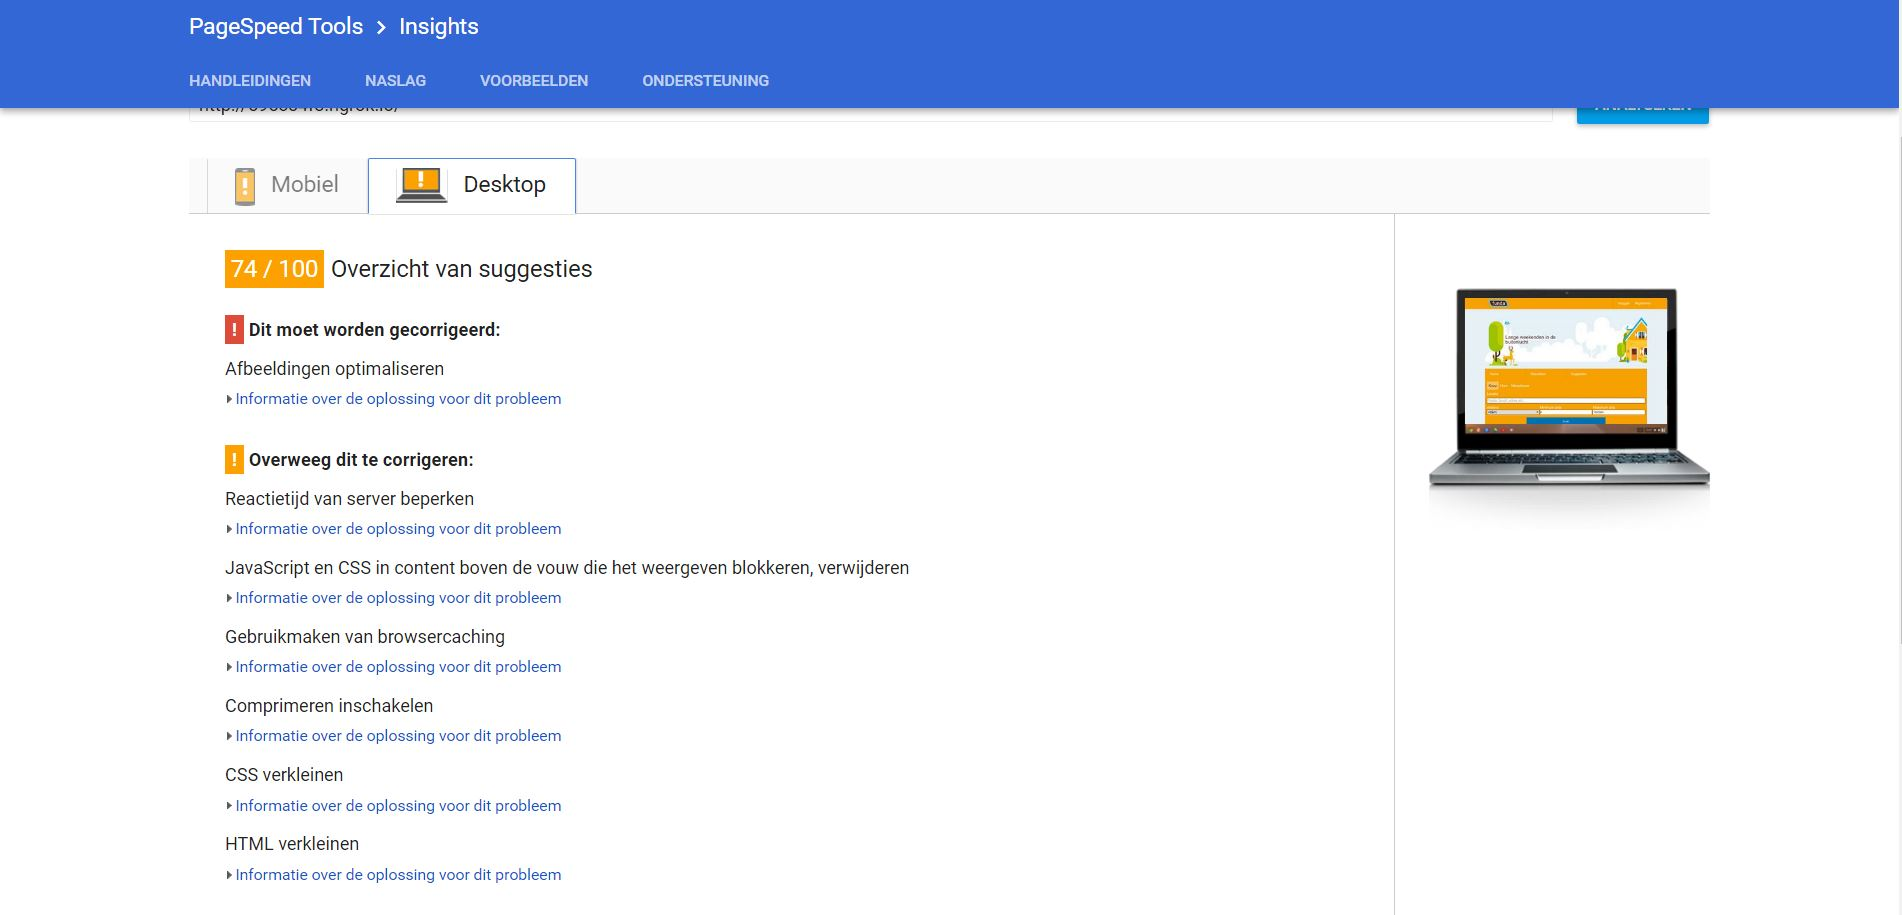
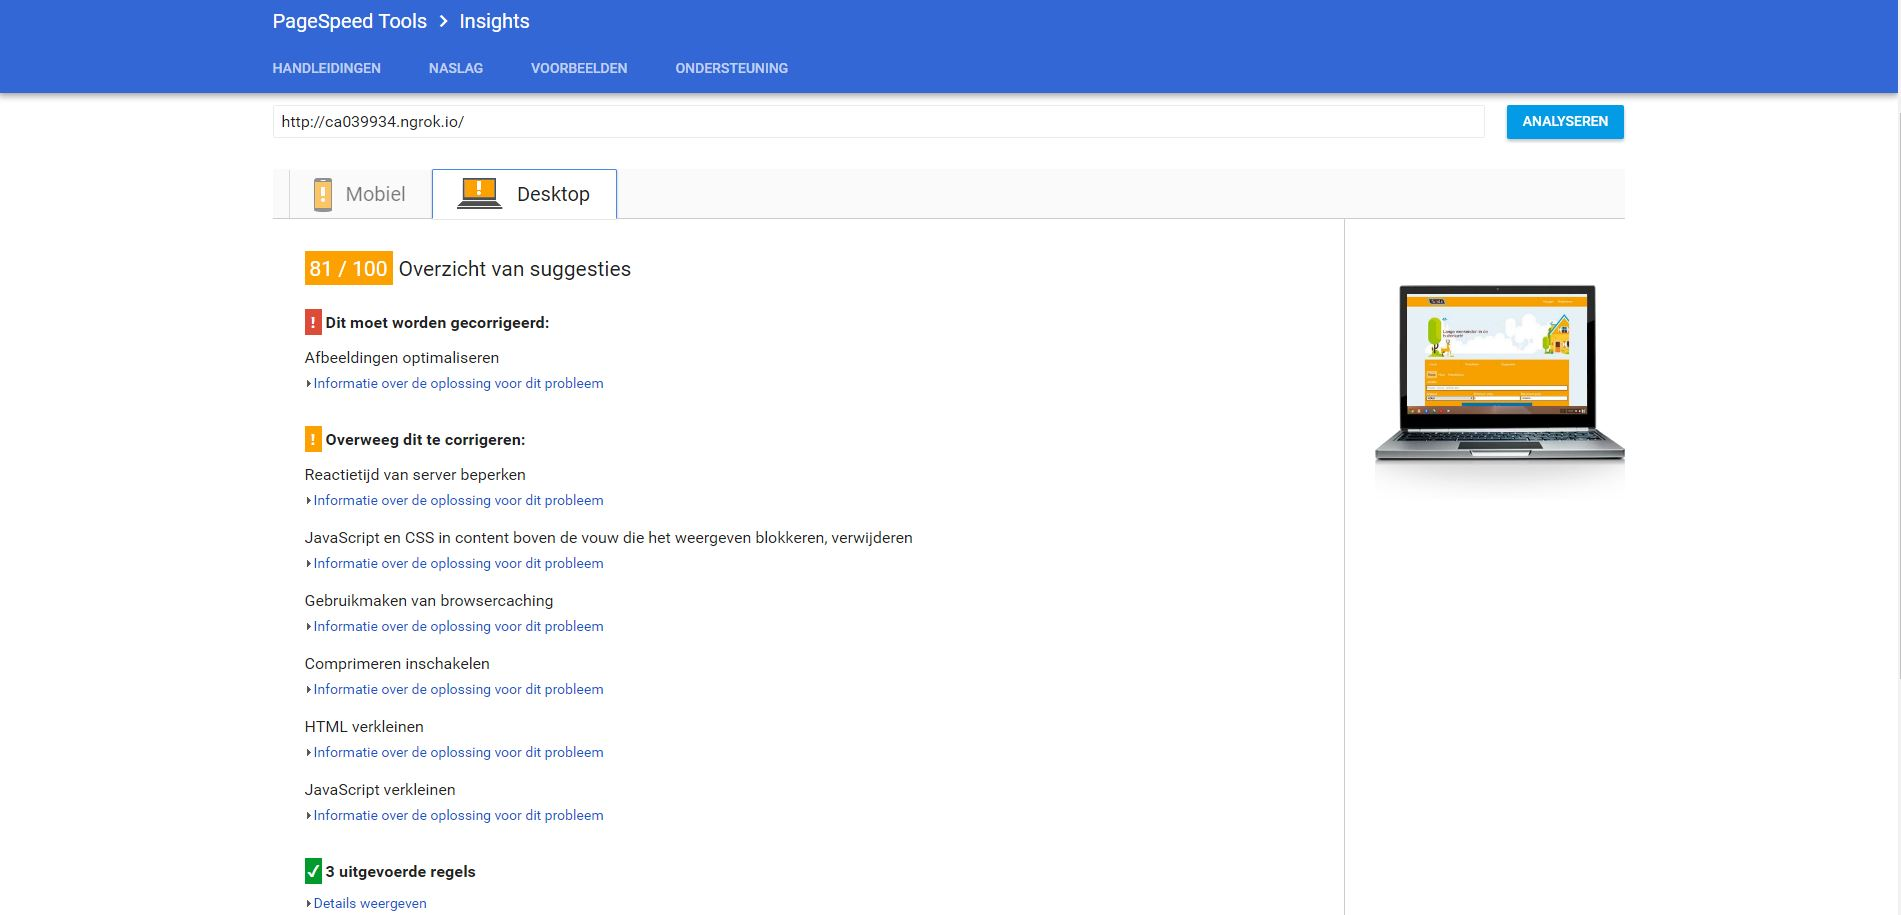
alst commit

Changed region(s): [[0.0931, 0.1836, 0.4966, 1.0], [0.0, 0.0, 1.0, 0.153], [0.7138, 0.306, 0.9001, 0.5508]]

diff --git a/public/stylesheets/style.min.css b/public/stylesheets/style.min.css
@@ -1,0 +1,1 @@
+body,body>header{margin:0;width:100%;padding:0}*{box-sizing:border-box}:focus{border-style:double}header ul,main header nav ul{border-right:.1em solid #DE9000;display:flex}body{font-family:sans-serif;line-height:1.5em;background:#e7f1f5}body>header{background-color:#F7A100;box-sizing:border-box}body>header section{display:flex;flex-direction:row;justify-content:space-between;flex-wrap:wrap;flex-basis:100%;margin:0 auto}body>header a{flex-grow:3}header a img{width:6.5em;padding:.5em 0 0;margin:0 1em}header ul{flex:100%;flex-direction:row;float:right;margin:0;box-sizing:border-box;list-style:none;align-items:center;flex-wrap:wrap;padding:0}header ul li{flex:100%;margin:0;border-top:none;border-top:.1em solid #DE9000;padding:0}header li a{width:100%;box-sizing:border-box;color:#fff;list-style:none;text-decoration:none;display:inline-block;padding:1rem 1.5rem}form label[for=koop]:hover,form label[for=huur]:hover,form label[for=nieuwbouw]:hover,header li a:hover{background:#DE9000}main header nav{width:100%;margin:auto}main header nav ul{width:100%;flex-direction:row}@media screen and (min-width:30em){body>header section{width:80%;flex-wrap:nowrap}header ul{flex:1;flex-wrap:nowrap}header ul li{flex:1;border-left:.1em solid #DE9000;border-top:none}main header nav{width:80%;margin:auto}}.CoverImage{box-sizing:border-box;background-image:url(../images/homePicture.jpg);background-position:bottom left;background-repeat:no-repeat;background-size:cover;height:35vh;width:80%;overflow:hidden;position:relative;margin:1em auto}.CoverImage h1{width:100%;font-size:1.5em;text-align:left;margin:0 0 0 10vw;font-weight:300;color:#53241B}.CoverImage h1:nth-of-type(1){margin:15vh 0 0 10vw}form{width:100%;margin:1em 0;background:#F7A100;box-sizing:border-box;color:#fff}form section{margin:0 0 1em;padding:0;border:none;width:100%}legend{width:100%;text-align:center}form section:nth-of-type(1){display:flex;flex-flow:column;width:100%;box-sizing:border-box;font-size:1.1rem}form input[type=radio]{display:none}form input[type=radio]+label{border-radius:.2em;padding:.5em;cursor:pointer;width:100%;box-sizing:border-box}form input[type=radio]:checked+label{background:#F8C463;color:#53241B}form input[type=radio]:checked+label:hover{background:#DE7000}form section:nth-of-type(2){padding:0 .5em;display:flex;flex-flow:column;width:100%;box-sizing:border-box;font-size:1.1rem}form section:nth-of-type(2) label{width:100%;font-size:1.1rem}select{margin:0;padding:0;font-size:1.1rem}form section:nth-of-type(2) button.sendAnswers{order:4;width:70%;margin:0 15% 1em;box-sizing:border-box;border:none;padding:1em;color:#fff;background:#0071B3}@media screen and (min-width:30em){form{width:100%;margin:1em 0;background:#F7A100;box-sizing:border-box;color:#fff}form section{margin:0 0 1em;padding:0;border:none;width:100%}legend{display:none}form section:nth-of-type(1){flex-flow:row;padding:.5em}form input[type=radio]+label{width:auto}form section:nth-of-type(2){flex-flow:row;flex-wrap:wrap;justify-content:space-between}form section:nth-of-type(2) input[id=locatie],form section:nth-of-type(2) label[for=locatie]{order:1;width:100%;font-size:1.1rem;margin-bottom:.5em}form section:nth-of-type(2) label[for=afstand],form section:nth-of-type(2) label[for=prijsMin],form section:nth-of-type(2) label[for=prijsMax]{width:33%;box-sizing:border-box;order:2}form section:nth-of-type(2) input[id=prijsMin],form section:nth-of-type(2) input[id=prijsMax],form section:nth-of-type(2) select[id=afstand]{width:33%;box-sizing:border-box;order:3}form section:nth-of-type(2) button.sendAnswers{order:4;width:50%;margin:1em 25%}}@media screen and (min-width:50em){form{width:80%;margin:1em auto;background:#F7A100;box-sizing:border-box;color:#fff}form section{margin:0}button.sendAnswers{margin-top:.5em}.displayType{width:80%}}.displayType{flex-basis:100%;margin:1em auto;background:#F7A100;box-sizing:border-box}.displayType ul{display:flex;flex-direction:row;justify-content:flex-start;flex-wrap:wrap;flex-basis:100%;box-sizing:border-box;margin:0;padding:1.5em}.displayType li{list-style:none;margin:1em 0}.displayType li a{padding:1em;border-radius:.2em;color:#fff;cursor:pointer;text-decoration:none}.displayType li.active a{background:#F8C463;color:#53241B}.displayType li a:hover{background:#DE9000}li.active a:hover{background:#DE7000}@media screen and (min-width:30em){.displayType{flex-wrap:nowrap}}#home,#map,#searchResults,#suggestions{width:100%;margin:0 auto;box-sizing:border-box;padding:1em;background:#fff}#map .map{box-sizing:border-box;height:90vh;margin:0 auto}@media screen and (min-width:50em){#home,#map,#searchResults,#suggestions{width:80%;margin:0 auto}}.homeData,.homeData section{width:100%;padding:0;display:flex}.homeData{flex-flow:column;justify-content:space-between;margin:1em 0}.homeData section{flex-flow:column;margin:1em auto}@media screen and (min-width:30em){.homeData{flex-flow:row;flex-wrap:wrap}.homeData section{width:48%}}@media screen and (min-width:50em){.homeData section{width:32%}}.extraData section:hover img,.homeData section:hover img,.requestedData section:hover img{opacity:.6}.homeData section img{width:100%}.homeData section h3,.homeData section p{margin:0;padding:0}.homeData section a{text-decoration:none;color:#0071B3}.extraData,.requestedData{width:100%;display:flex;flex-direction:column;box-sizing:border-box}.extraData section,.requestedData section{width:100%;display:flex;flex-direction:column;box-sizing:border-box;align-content:space-between;margin:.5em 0}.extraData section a,.requestedData section a{width:100%;text-decoration:none;color:#0071B3}.extraData section a img,.requestedData section a img{width:100%}.extraData .details,.requestedData .details{width:100%;display:flex;flex-direction:column;box-sizing:border-box;justify-content:center;margin:0;padding:0 1em}.extraData .details a,.extraData .details a h3,.extraData .details p,.requestedData .details a,.requestedData .details a h3,.requestedData .details p{margin:0;padding:0}@media screen and (min-width:30em){.extraData section,.requestedData section{flex-direction:row}.extraData section a,.requestedData section a{width:35%}.extraData .details,.requestedData .details{width:60%}}.loader{width:8em;height:8em;border:1em solid #F8C463;border-top:1em solid #DE7000;border-radius:50%;margin:0 auto;animation:spin 2s linear infinite}@keyframes spin{0%{transform:rotate(0)}100%{transform:rotate(360deg)}}li.autoSuggestion{cursor:pointer;padding:.5em;border-radius:.5em}li.autoSuggestion:focus,li.autoSuggestion:hover{background:#F8C463}

diff --git a/public/stylesheets/style.css b/public/stylesheets/style.css
@@ -1,7 +1,3 @@
-/*
-sources:
-http://codepen.io/necolas/pen/Aksni
-*/
 *{
     box-sizing: border-box;
 }

diff --git a/readme.md b/readme.md
@@ -39,3 +39,29 @@ The user wants to look for a house. With all the filters and features, the user 
 - https://www.npmjs.com/package/dotenv
 - https://www.npmjs.com/package/request
 - https://codepen.io/postleonardo/pen/PwdQmv
+
+
+## Funda
+#### The Funda app
+![homescreen](./screenshots/homescreen.jpg)
+![search](./screenshots/search.jpg)
+![suggestions](./screenshots/suggestions.jpg)
+
+#### Autofill search
+![autofill-with-js](./screenshots/autofill-with-js.jpg)
+![autofill-without-js](./screenshots/autofill-without-js.jpg)
+
+
+#### Funda speed insight
+PageSpeed Insights desktop:
+![desktop-support](./screenshots/desktop-support.jpg)
+
+PageSpeed Insights mobile:
+![mobile-support](./screenshots/mobile-support.jpg)
+
+#### Chorme developer tools
+Loadingtime
+![loadingtime](./screenshots/loadingtime.jpg)
+
+Activities
+![loadingtime2](./screenshots/loadingtime2.jpg)
